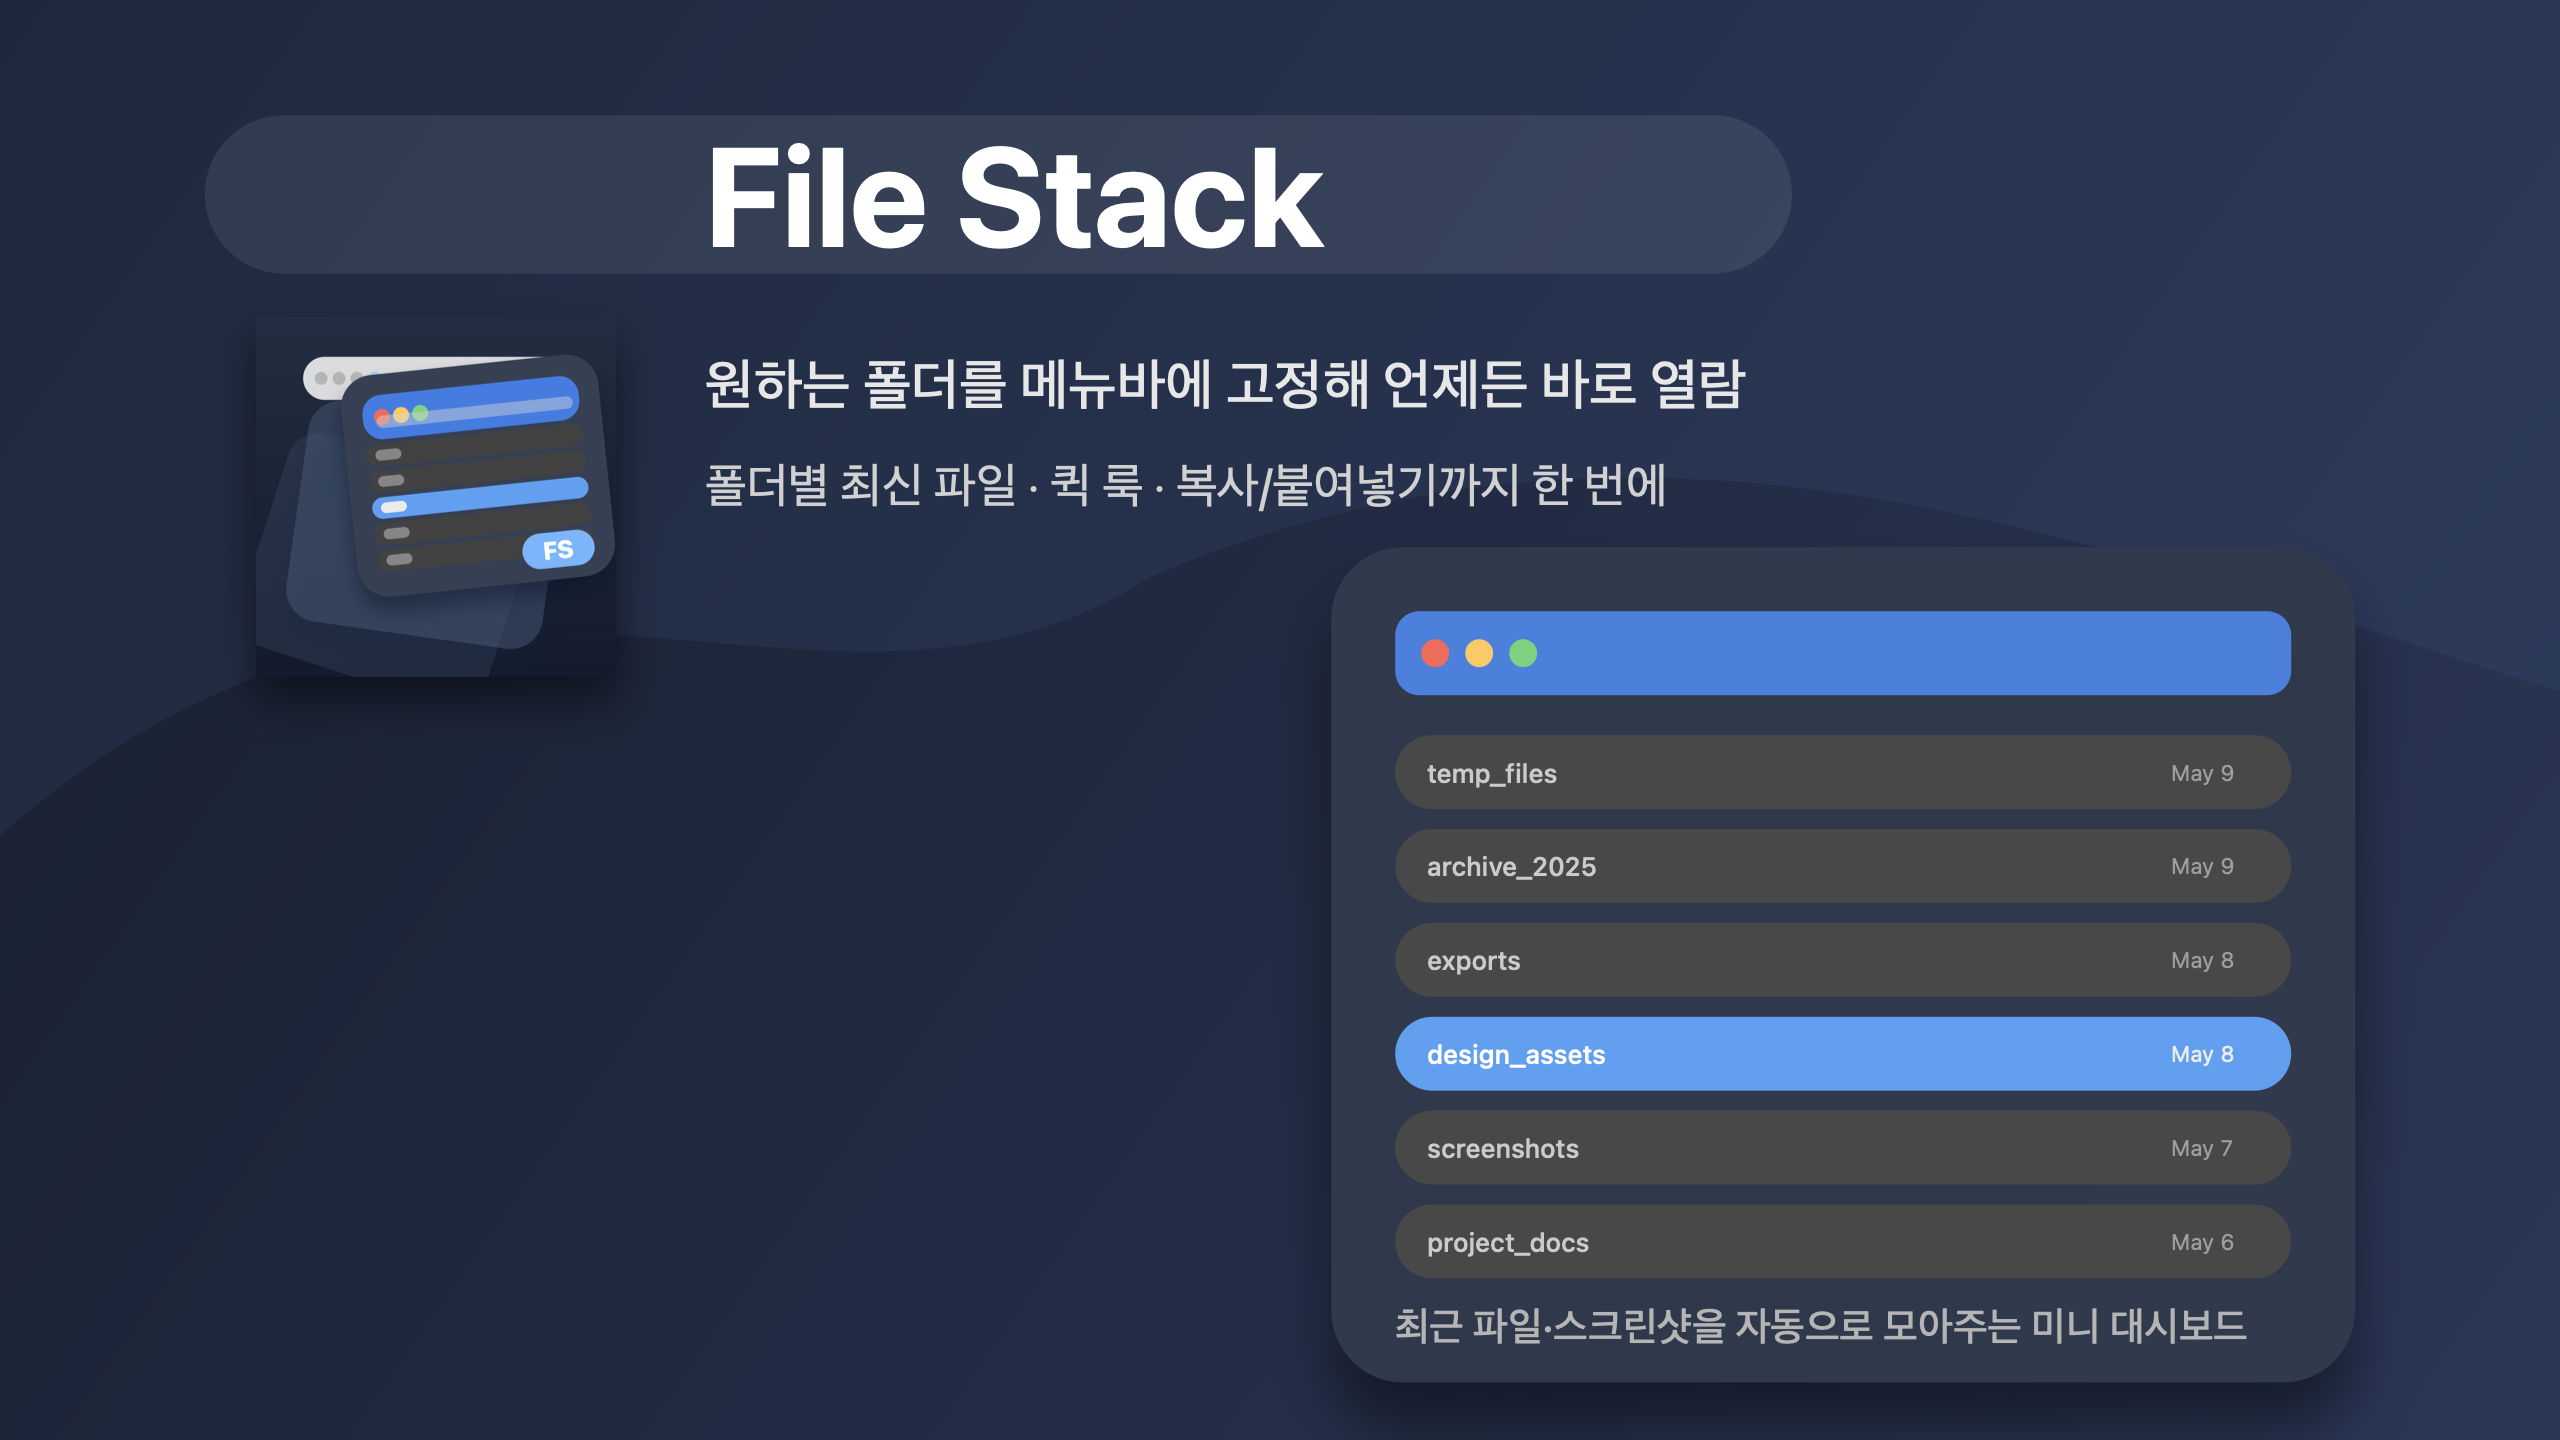
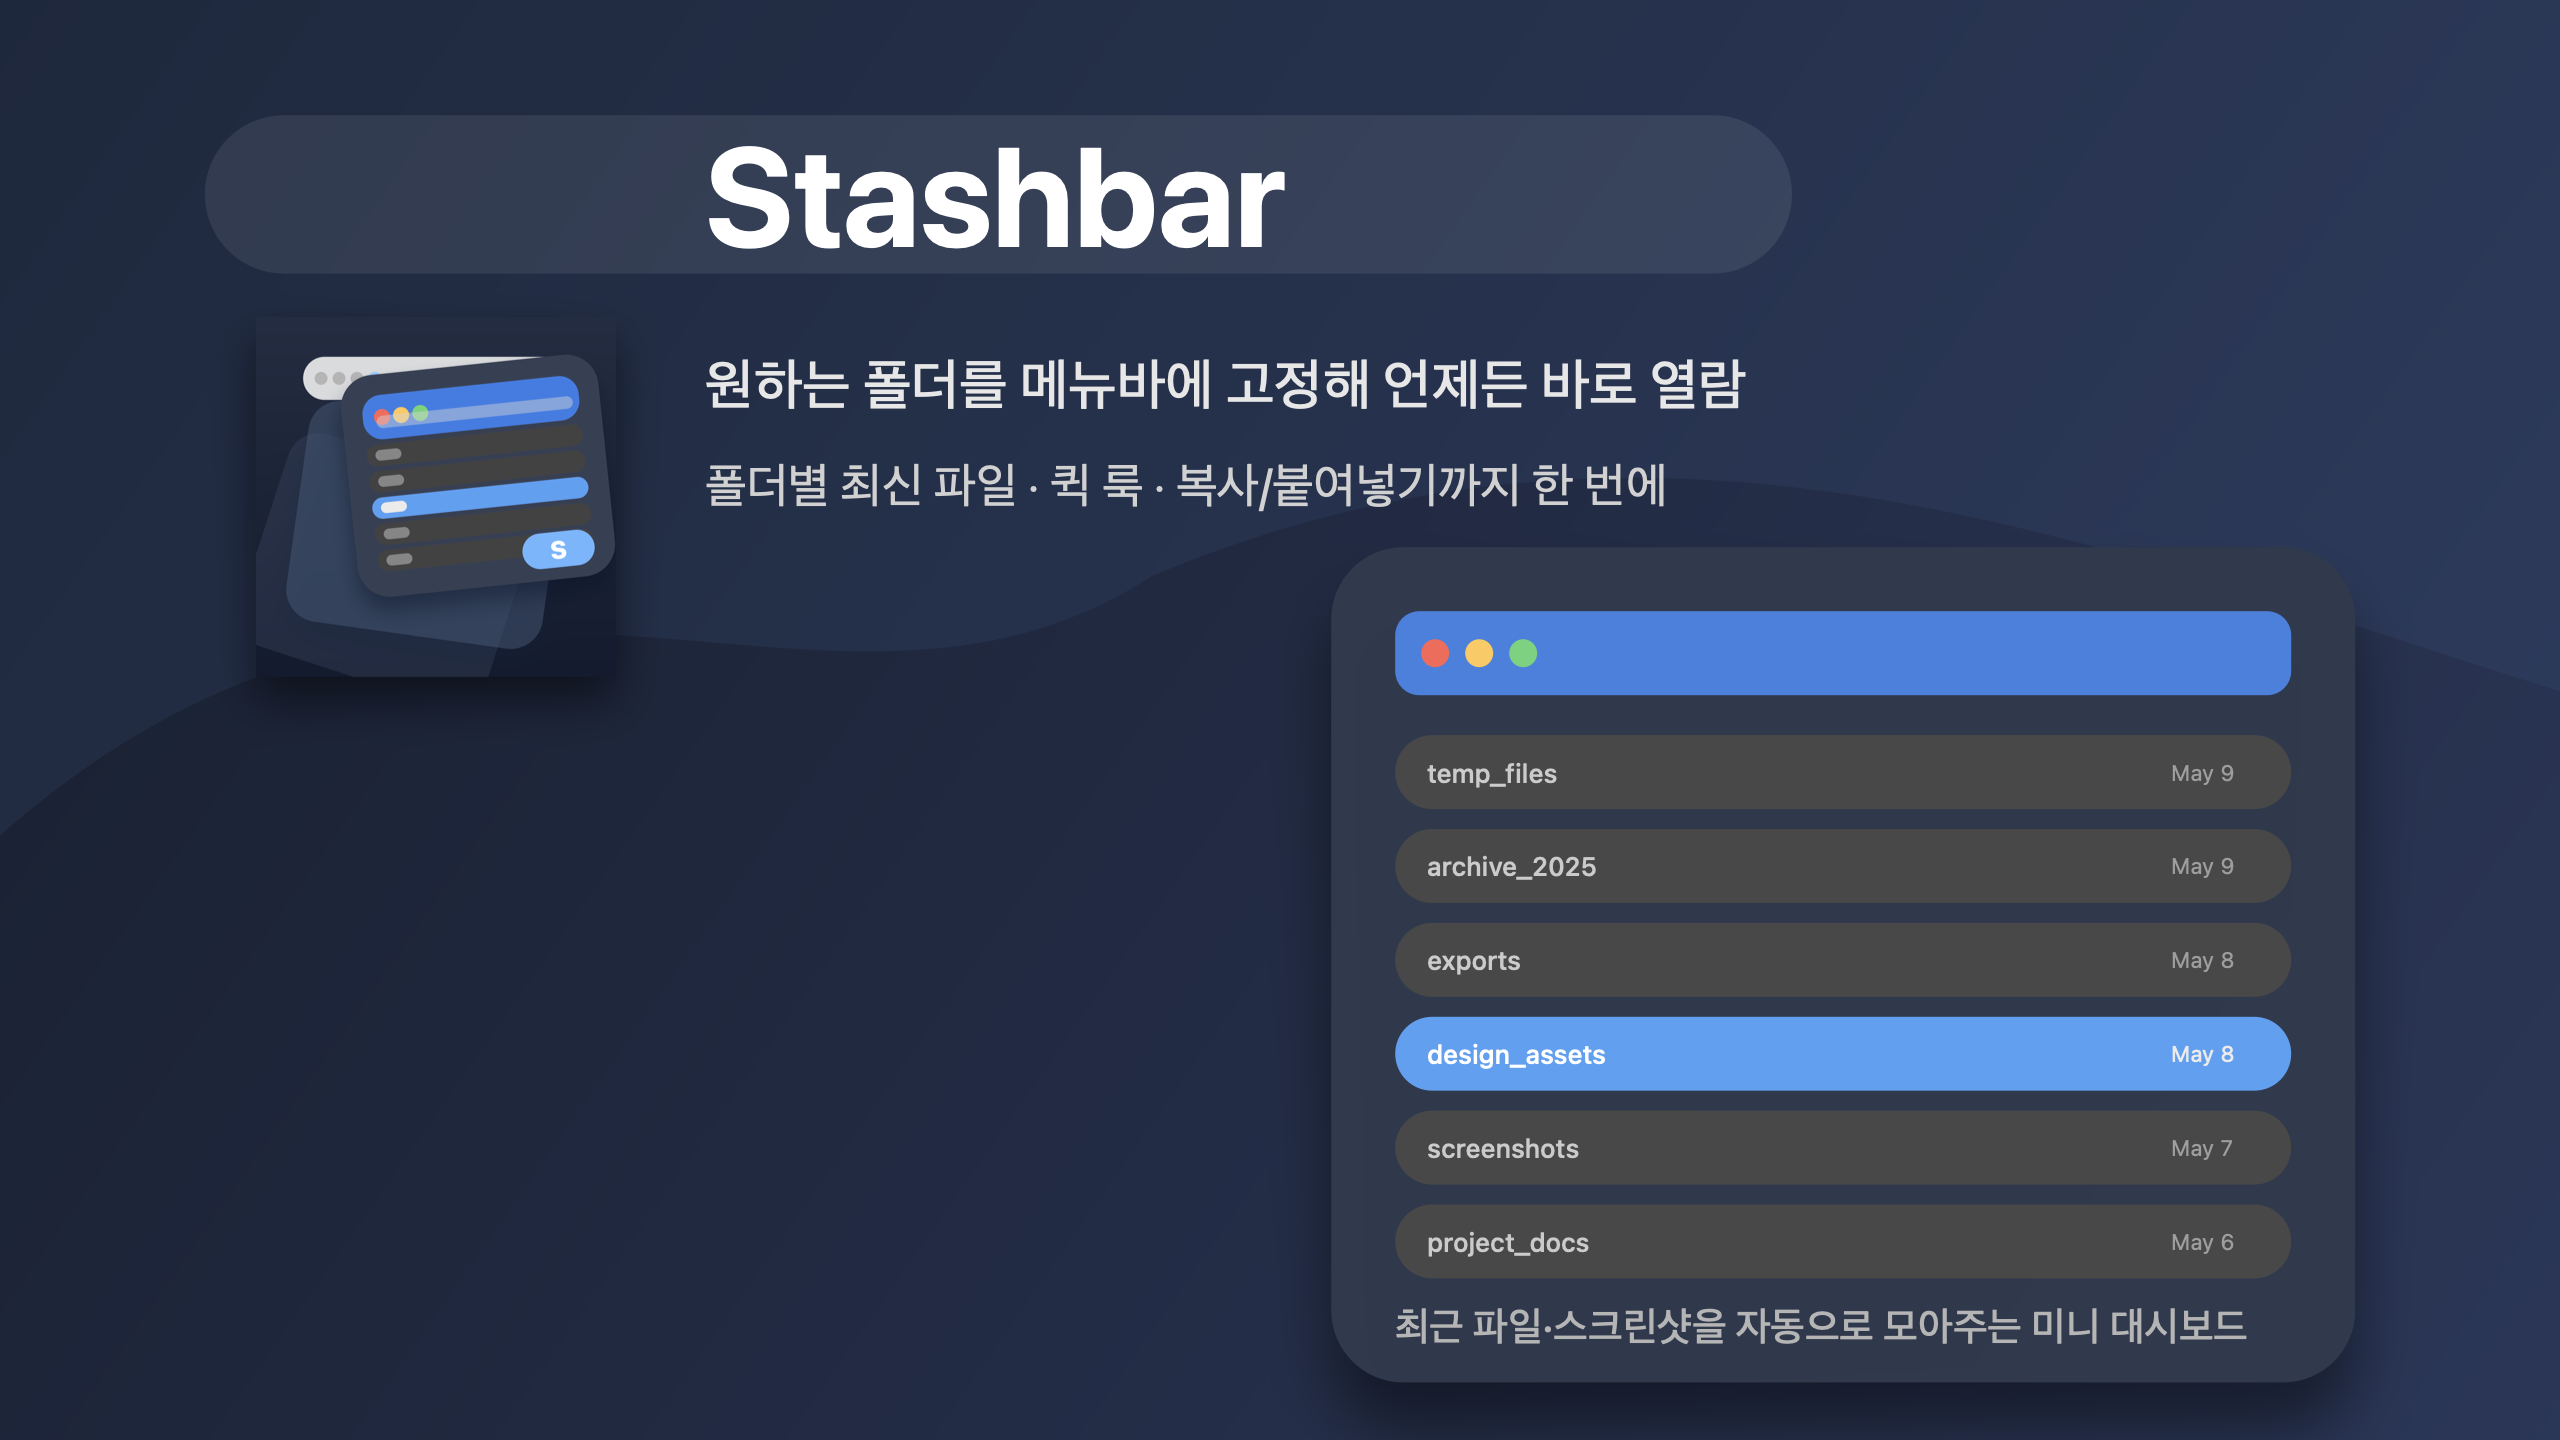
Regenerate hero images for Stashbar rebrand
Rerun the hero generators so the wordmark reads "Stashbar" instead of
"File Stack" (light + dark), and change the dark hero's icon monogram from
the "FS" initials to "S". The app icon itself carries no text (abstract
stacked-list glyph) and the App Store / popover screenshots show no app-name
text, so those assets are unchanged.

Changed region(s): [[0.2812, 0.0938, 0.5312, 0.1875]]

diff --git a/scripts/generate_hero_dark.swift b/scripts/generate_hero_dark.swift
@@ -184,7 +184,7 @@ func makeDarkIcon(size: CGFloat) -> NSImage {
             NSColor(calibratedRed: 0.35, green: 0.65, blue: 1.0, alpha: 1.0).setFill()
             badgePath.fill()
 
-            let text = "FS" as NSString
+            let text = "S" as NSString
             let badgeFont = NSFont.systemFont(ofSize: badgeHeight * 0.7, weight: .heavy)
             let paragraph = NSMutableParagraphStyle()
             paragraph.alignment = .center